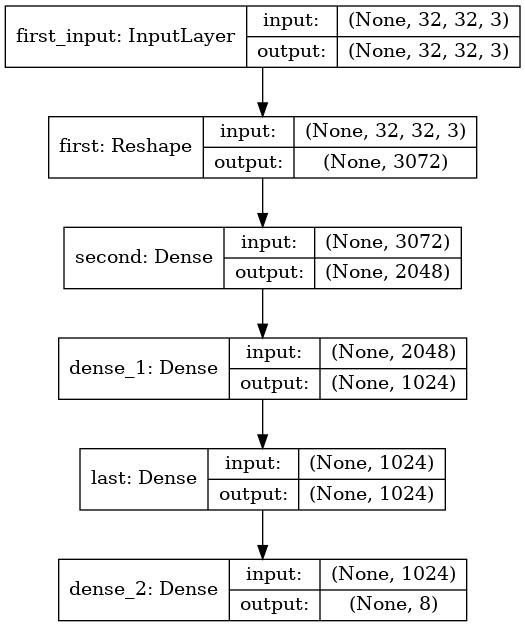
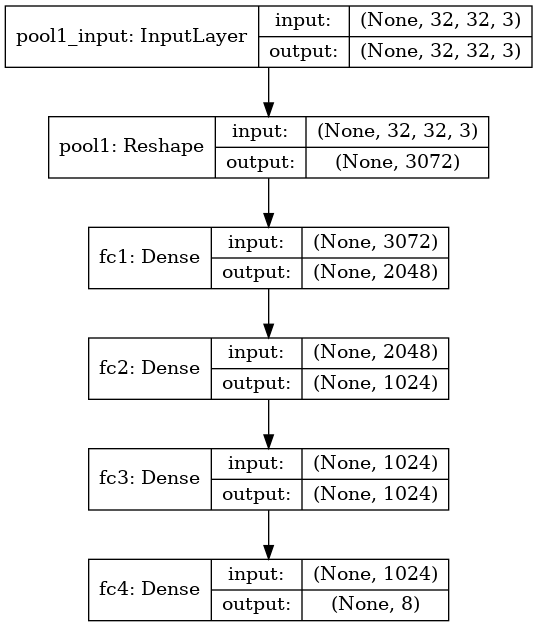
Initial BoVW implementation Implement an inner class called LAYERS to access to the layers of the neural network easily.

diff --git a/source/MLP.py b/source/MLP.py
@@ -12,11 +12,19 @@ from sklearn.model_selection import GridSearchCV
 from sklearn.model_selection import StratifiedKFold
 from sklearn.preprocessing import StandardScaler
 
+from bag_of_visual_words import BoVW
 from evaluator import Evaluator
 from utils import Color, colorprint
 
 
 class multi_layer_perceptron(object):
+    class LAYERS(object):
+        FIRST = 'pool1'
+        SECOND = 'fc1'
+        THIRD = 'fc2'
+        LAST = 'fc3'
+        LABELS = 'fc4'
+
     def __init__(self, img_size=32, batch_size=16,
                  dataset_dir='/home/datasets/scenes/MIT_split',
                  model_fname='my_first_mlp.h5'):
@@ -42,11 +50,15 @@ class multi_layer_perceptron(object):
         self.model = Sequential()
         self.model.add(Reshape((self.IMG_SIZE * self.IMG_SIZE * 3,),
                                input_shape=(self.IMG_SIZE, self.IMG_SIZE, 3),
-                               name='first'))
-        self.model.add(Dense(units=2048, activation='relu', name='second'))
-        self.model.add(Dense(units=1024, activation='relu'))
-        self.model.add(Dense(units=1024, activation='relu', name='last'))
-        self.model.add(Dense(units=8, activation='softmax'))
+                               name=self.LAYERS.FIRST))
+        self.model.add(
+            Dense(units=2048, activation='relu', name=self.LAYERS.SECOND))
+        self.model.add(
+            Dense(units=1024, activation='relu', name=self.LAYERS.THIRD))
+        self.model.add(
+            Dense(units=1024, activation='relu', name=self.LAYERS.LAST))
+        self.model.add(
+            Dense(units=8, activation='softmax', name=self.LAYERS.LABELS))
 
         self.model.compile(loss='categorical_crossentropy',
                            optimizer='sgd',
@@ -141,7 +153,7 @@ class multi_layer_perceptron(object):
         end = time.time()
         colorprint(Color.BLUE, 'Done in ' + str(end - init) + ' secs.\n')
 
-    def get_layer_output(self, layer='last', image_set='test'):
+    def get_layer_output(self, layer=LAYERS.LAST, image_set='test'):
         # get layer output
 
         init = time.time()
@@ -287,7 +299,7 @@ class multi_layer_perceptron(object):
         # self.clf = svm.SVC(kernel='rbf', C=10, gamma=.002).fit(D_scaled,
         #                                                      train_labels)
         self.clf = svm.SVC(kernel='linear').fit(D_scaled, train_labels)
-            end = time.time()
+        end = time.time()
         colorprint(Color.BLUE, 'Done in ' + str(end - init) + ' secs.\n')
 
     def evaluate_performance_SVM(self, features, test_labels, do_plotting):
@@ -324,3 +336,87 @@ class multi_layer_perceptron(object):
         end = time.time()
         colorprint(Color.BLUE, 'Done in ' + str(end - init) + ' secs.\n')
         colorprint(Color.BLUE, 'Final accuracy: ' + str(accuracy) + '\n')
+
+    def cross_validate_BoVW(self, features, train_labels):
+        """ cross_validate classifier with k stratified folds """
+        colorprint(Color.BLUE, 'Cross_validating the SVM classifier...\n')
+        init = time.time()
+
+        # Create BoVW classifier
+        BoVW_classifier = BoVW(k=512)
+
+        # rearenge feautures to a single array
+        features = np.array(features)
+        size_descriptors = features[0].shape[1]
+        D = np.zeros(
+            (np.sum([len(p) for p in features]), size_descriptors),
+            dtype=np.uint8)
+        startingpoint = 0
+        for i in range(len(features)):
+            D[startingpoint:startingpoint + len(features[i])] = \
+                features[i]
+            startingpoint += len(features[i])
+
+        # Compute Codebook
+        BoVW_classifier.compute_codebook(D)
+
+        # get train visual word encoding
+        visual_words = BoVW_classifier.get_train_encoding(features,
+                                                          Keypoints=[])
+
+        # Cross validate classifier
+        BoVW_classifier.cross_validate(visual_words, train_labels)
+
+        end = time.time()
+        colorprint(Color.BLUE, 'Done in ' + str(end - init) + ' secs.\n')
+
+    def train_classifier_BoVW(self, features, train_labels):
+        # Train an SVM classifier
+        colorprint(Color.BLUE, 'Training the SVM classifier...\n')
+        init = time.time()
+
+        # Create BoVW classifier
+        self.BoVW_classifier = BoVW(k=512)
+
+        # rearenge feautures to a single array
+        features = np.array(features)
+        size_descriptors = features[0].shape[1]
+        D = np.zeros(
+            (np.sum([len(p) for p in features]), size_descriptors),
+            dtype=np.uint8)
+        startingpoint = 0
+        for i in range(len(features)):
+            D[startingpoint:startingpoint + len(features[i])] = \
+                features[i]
+            startingpoint += len(features[i])
+
+            # Compute Codebook
+        self.BoVW_classifier.compute_codebook(D)
+
+        # get train visual word encoding
+        visual_words = self.BoVW_classifier.get_train_encoding(features,
+                                                               Keypoints=[])
+
+        # Train an SVM classifier
+        self.BoVW_classifier.train_classifier(visual_words, train_labels)
+
+        end = time.time()
+        colorprint(Color.BLUE, 'Done in ' + str(end - init) + ' secs.\n')
+
+    def evaluate_performance_BoVW(self, features, test_labels, do_plotting):
+        # Test the classification accuracy
+        colorprint(Color.BLUE, 'Testing the SVM classifier...\n')
+        init = time.time()
+
+        # get train visual word encoding
+        features = np.array(features)
+        visual_words_test = self.BoVW_classifier.get_train_encoding(features,
+                                                                    Keypoints=[])
+
+        # Test the classification accuracy
+        self.BoVW_classifier.evaluate_performance(visual_words_test,
+                                                  test_labels,
+                                                  do_plotting, train_data=[])
+
+        end = time.time()
+        colorprint(Color.BLUE, 'Done in ' + str(end - init) + ' secs.\n')

diff --git a/source/session3.py b/source/session3.py
@@ -1,7 +1,6 @@
 # Config for an specific GPU
-import os
-import getpass
-os.environ["CUDA_VISIBLE_DEVICES"]=getpass.getuser()[-1]
+# import getpass
+# os.environ["CUDA_VISIBLE_DEVICES"]=getpass.getuser()[-1]
 
 import time
 
@@ -10,12 +9,14 @@ from source import DATA_PATH
 from utils import Color
 from utils import colorprint
 
-# Compute SVM ?
-SVM = False
-# Do cross-validation to find best parameters ?
+# Compute SVM
+SVM = True
+# Compute bag of visual words
+BoVW = False
+# Do cross-validation to find best parameters 
 cross_validate = False
-# Load pre-trained model or generate from scratch?
-load_model = False
+# Load pre-trained model or generate from scratch
+load_model = True
 
 MODEL_PATH = '../results/session3/my_first_mlp.h5'
 
@@ -36,21 +37,33 @@ if __name__ == "__main__":
     else:
         neural_network.load_MLP_model()
 
-    if not SVM:
-        neural_network.plot_results()
-
-    else:
+    if SVM:
         # feature extraction with MLP + SVM classification
-        features, labels = neural_network.get_layer_output(layer='last',
-                                                           image_set='train')
+        features, labels = neural_network.get_layer_output(
+            layer=neural_network.LAYERS.LAST, image_set='train')
         if not cross_validate:
             neural_network.train_classifier_SVM(features, labels)
             features, labels = neural_network.get_layer_output(
-                layer='last', image_set='test')
+                layer=neural_network.LAYERS.LAST, image_set='test')
             neural_network.evaluate_performance_SVM(features, labels,
                                                     do_plotting=True)
         else:
             neural_network.cross_validate_SVM(features, labels)
+
+    elif BoVW:
+        # feature extraction with MLP + BoVW classification
+        features, labels = neural_network.get_layer_output(
+            layer=neural_network.LAYERS.LAST, image_set='train')
+        if not cross_validate:
+            neural_network.train_classifier_BoVW(features, labels)
+            features, labels = neural_network.get_layer_output(
+                layer=neural_network.LAYERS.LAST, image_set='test')
+            neural_network.evaluate_performance_BoVW(features, labels,
+                                                     do_plotting=True)
+        else:
+            neural_network.cross_validate_BoVW(features, labels)
+    else:
+        neural_network.plot_results()
 
     end = time.time()
     colorprint(Color.BLUE, 'Done in ' + str(end - init) + ' secs.\n')
